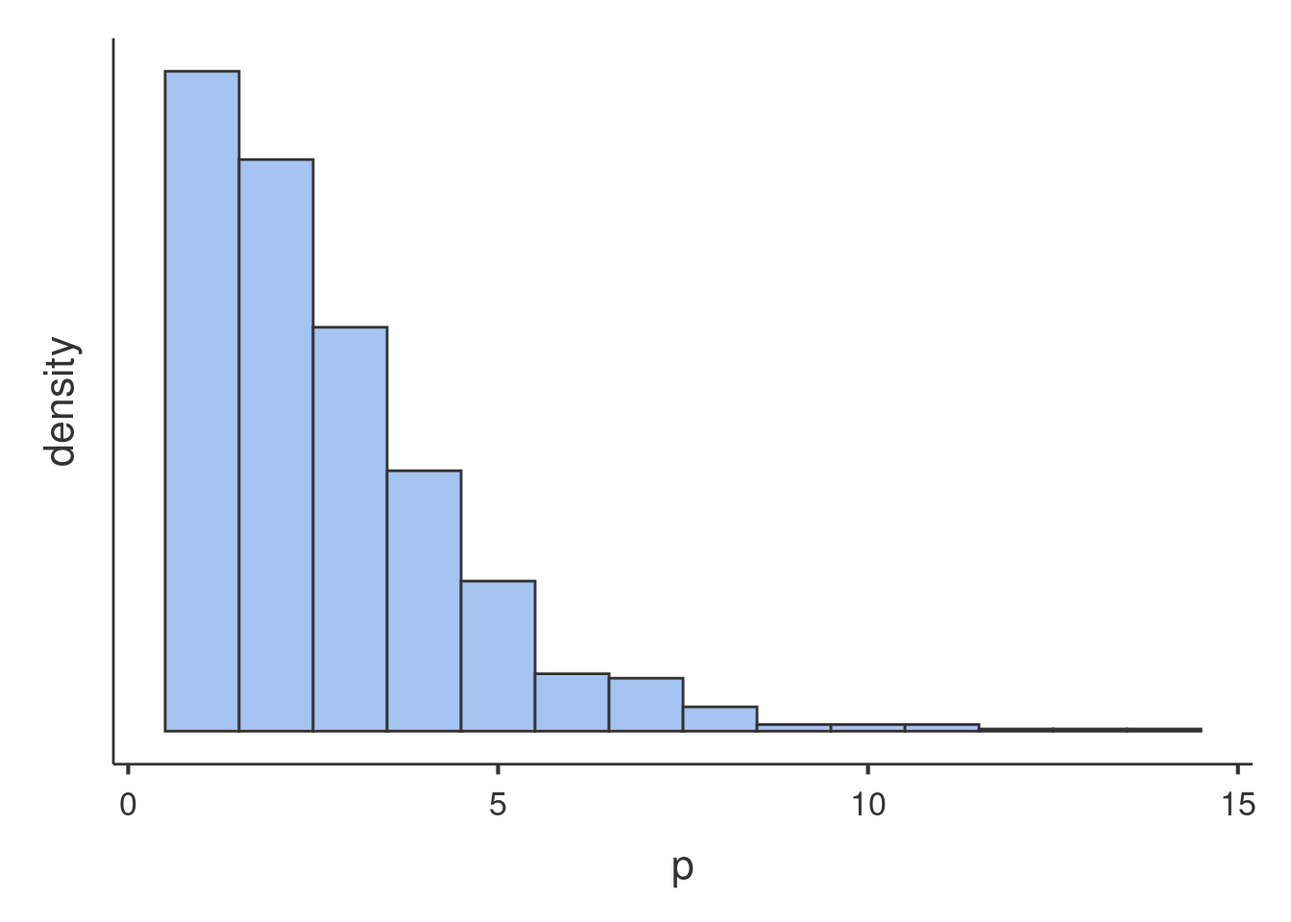
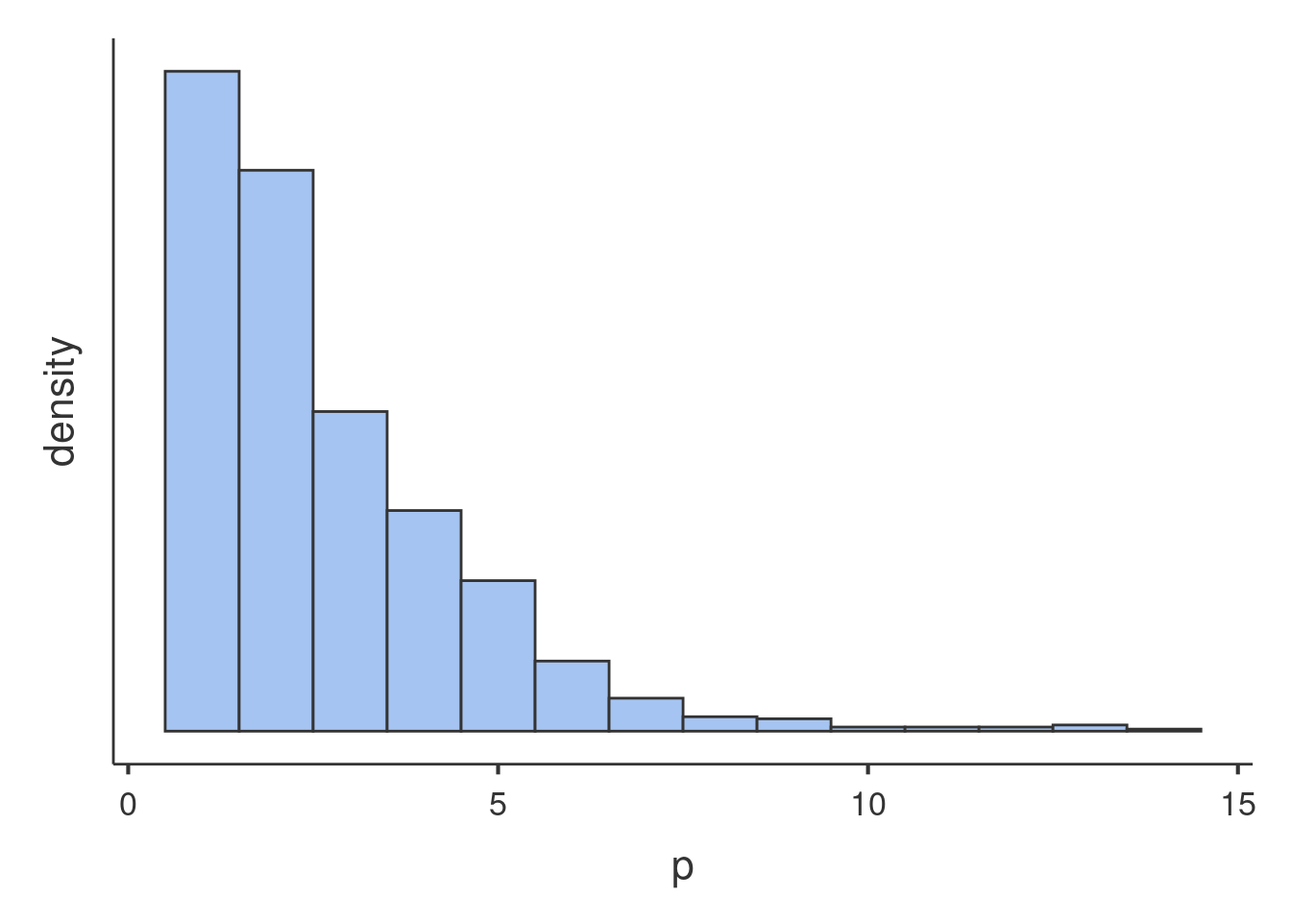
updates

diff --git a/gzlmmixed.html b/gzlmmixed.html
@@ -414,7 +414,7 @@ div.tocify {
 <p>The module provides parameter estimates of the fixed effects, the random variances and correlation among random coefficients.</p>
 <p>Variables definition follows <span class="jamovi">jamovi</span> standards, with categorical independent variables defined in “fixed factors” and continuous independent variables in “covariates”.</p>
 <p><img src="gzlmmixed/estimates.png" class="img-responsive" alt=""></p>
-<p>The grouping variable is simply set by putting the corresponding variable(s) into <code>cluster</code>. In this version, multiple clustering variables are possible, but not combinations of classifications ( see <a href="mixed_specs.html">Technical Details</a> ).</p>
+<p>The grouping variable is simply set by putting the corresponding variable(s) into <span class="option">cluster</span>. In this version, multiple clustering variables are possible, but not combinations of classifications. That can be easily solved by recoding the clustering variables ( see <a href="mixed_specs.html">Technical Details</a> ).</p>
 <p>Confidence intervals for the parameters estimates and for the exponential of them (expB).</p>
 <p>The actual estimation occurs when the dependent variable, the clustering variable and at least one random coefficient (random effect) has been selected.</p>
 </div>
@@ -422,7 +422,7 @@ div.tocify {
 <h1>Random effects</h1>
 <p><img src="mixed/random.png" class="img-responsive" alt=""></p>
 <p>Random effects across clustering variables are automatically prepared by the module following R lmer() standards: <code>term | cluster</code> indicates that the coefficient associated with <code>term</code> is random across <code>cluster</code>.</p>
-<p>By default the module assumes correlated random effects. All the effects varying across the same cluster variable appearing in the <code>Random coefficients</code> will be correlated. To obtain a <em>variance component</em> model, select <code>Not correlated</code>. A custom pattern of correlation can be obtained by selecting <code>Correlated by block</code>. For instance, in Fig. below, a custom structure has been defined by allowing the intercept and the effect of <code>x</code> to be correlated, whereas the effect of <code>wfac</code> is independent from the others.</p>
+<p>By default the module assumes correlated random effects. All the effects varying across the same cluster variable appearing in the <span class="option">Random coefficients</span> will be correlated. To obtain a <em>variance component</em> model, select <span class="option">Not correlated</span>. A custom pattern of correlation can be obtained by selecting <code>Correlated by block</code>. For instance, in Fig. below, a custom structure has been defined by allowing the intercept and the effect of <code>x</code> to be correlated, whereas the effect of <code>wfac</code> is independent from the others.</p>
 <p><img src="mixed/random2.png" class="img-responsive" alt=""></p>
 </div>
 <div id="fixed-effects-model" class="section level1">
@@ -449,8 +449,8 @@ div.tocify {
 <div id="covariates-scaling" class="section level1">
 <h1>Covariates Scaling</h1>
 <p><img src="commons/pics/xscoring.png" class="img-responsive" alt=""></p>
-<p>Continuous variables can be centered, standardized, cluster-based centered, cluster-based standardized or used as they are (<code>none</code>). The default is <code>centered</code> because it makes our lives much easier when there are interactions in the model, and do not affect the B coefficients when there are none. Thus, if one is comparing results with other software that does not center the continuous variables, without interactions in the model one would find only a discrepancy in the intercept, because in GAMLj the intercept represents the expected value of the dependent variable for the average value of the independent variable. If one needs to <em>unscale</em> the variable, simply select <code>none</code>.</p>
-<p><code>cluster-based centered</code> and <code>cluster-based standardized</code> center each score using the mean of the cluster in which the score belongs. For <code>cluster-based standardized</code> the score is also divided by the cluster standard deviation.</p>
+<p>Continuous variables can be centered, standardized, cluster-based centered, cluster-based standardized, log-transformed or used as they are (<code>none</code>). The default is <span class="option">centered</span> because it makes our lives much easier when there are interactions in the model, and do not affect the B coefficients when there are none. Thus, if one is comparing results with other software that does not center the continuous variables, without interactions in the model one would find only a discrepancy in the intercept, because in GAMLj the intercept represents the expected value of the dependent variable for the average value of the independent variable. If one needs to <em>unscale</em> the variable, simple select <span class="option">none</span>.</p>
+<p><span class="option">Centered clusterwise</span> and <span class="option">z-scores clusterwise</span> center each score using the mean of the cluster in which the score belongs. For <span class="option">z-scores clusterwise</span> the score is also divided by the cluster standard deviation. <span class="option">Log</span> applies a simple natural logarithm transformation to the variable.</p>
 <p><span class="option">Covariates conditioning</span> rules how the model is conditioned to different values of the continuous independent variables in the <em>simple effects</em> estimation and in the <em>plots</em> when there is an interaction in the model.</p>
 <ul>
 <li><p><span class="option">Mean+SD</span>: means that the IV is conditioned to the <span class="math inline">\(mean\)</span>, to <span class="math inline">\(mean+k \cdot sd\)</span>, and to <span class="math inline">\(mean-k\cdot sd\)</span>, where <span class="math inline">\(k\)</span> is ruled by the white field below the option. Default is 1 SD.</p></li>
@@ -490,7 +490,7 @@ div.tocify {
 <p>By filling in <span class="option">Separate plots</span> one can probe three-way interactions. If the selected variable is a factor, one obtains a two-way graph (as previously defined) for each level of the “Separate plots” variable. If the selected variable is a covariate, one obtains a two-way graph (as previously defined) for the <code>Separate plots</code> variable centered to conditioning values selected in the <span class="option">Covariates conditioning</span> options.</p>
 <p>Flagging the <span class="option">Display</span> options add <span class="option">Confidence intervals</span> (or confidence bands) or <span class="option">Standard errors</span> to the plots.</p>
 <p><span class="option">Plot</span> options allows to add observed data to the plot (<span class="option">Observed scores</span>) or to fix the range of the plot to the actual range of the dependent variable (<span class="option">Y-axis observed range</span>), without the need to plot the actual predicted values. When <code>Separate plots</code> are required, in each plot are showed only the observed scores of the moderator level for which the plot is done when the moderator is a categorical one, otherwise all data are plot in each plot.</p>
-<p>By flagging <code>Random effects</code> one obtains the random effects estimated values in the plot along with the fixed effects. In case of multiple cluster variables, the first cluster variable in the <code>cluster</code> field of “variable role” panel is used (if it is included in the model). To change the cluster variable used to plot the random effects, change the order of the variables in the “variable role” definition.</p>
+<p>By flagging <span class="option">Random effects</span> one obtains the random effects estimated values in the plot along with the fixed effects. In case of multiple cluster variables, the first cluster variable in the <code>cluster</code> field of “variable role” panel is used (if it is included in the model). To change the cluster variable used to plot the random effects, change the order of the variables in the “variable role” definition.</p>
 </div>
 <div id="estimated-marginal-means" class="section level1">
 <h1>Estimated marginal means</h1>
@@ -500,8 +500,8 @@ div.tocify {
 <div id="options" class="section level1">
 <h1>Options</h1>
 <p><img src="gzlmmixed/options.png" class="img-responsive" alt=""></p>
-<p>The <code>precision/speed</code> parameter applies to mixed models with one random effect. Higher numbers increase precision in the estimation with a speed cost. It corresponds to the <code>nAGQ</code> parameter of <code>glmer</code> command in R package <a href="https://cran.r-project.org/web/packages/lme4/index.html">lme4</a>. For models with more than</p>
-<p>The <code>CI method</code> decides which method is used for computing confidence intervals. <code>Wald</code> uses Wald statistics and it is less precise than the other methods, but it is significantly faster. <code>Profile</code> is more precise but slower. <code>Boot</code>, bootstrap method, is the slowest. Details of the implementation can be found in <a href="https://cran.r-project.org/web/packages/lme4/lme4.pdf">lme4 manual</a></p>
+<p>The <span class="option">precision/speed</span> parameter applies to mixed models with one random effect. Higher numbers increase precision in the estimation with a speed cost. It corresponds to the <code>nAGQ</code> parameter of <code>glmer</code> command in R package <a href="https://cran.r-project.org/web/packages/lme4/index.html">lme4</a>. For models with more than</p>
+<p>The <span class="option">CI method</span> decides which method is used for computing confidence intervals. <span class="option">Wald</span> uses Wald statistics and it is less precise than the other methods, but it is significantly faster. <span class="option">Profile</span> is more precise but slower. <span class="option">Boot</span>, bootstrap method, is the slowest. Details of the implementation can be found in <a href="https://cran.r-project.org/web/packages/lme4/lme4.pdf">lme4 manual</a></p>
 </div>
 <div id="examples" class="section level1">
 <h1>Examples</h1>

diff --git a/gzlm.html b/gzlm.html
@@ -387,14 +387,14 @@ div.tocify {
 <p>For each model, any combination of categorical and continuous variables can be set as independent variables, thus providing an easy way for multiple regression, ANOVA-like, ANCOVA-like and moderation analysis for categorical and count dependent variables.</p>
 <p>Models are defined by a link function (LF) and the dependent variable distribution, thus allowing to model different types of dependent variables:</p>
 <ul>
-<li>Linear model: identity LF, gaussian distribution, yielding a general linear model for continuous dependent variables.</li>
-<li>Poisson model: logarithm LF, Poisson distribution, modelling count dependent variables. This model is often called log-linear model when the independent variables are all categorical.</li>
-<li>Overdispersed Poisson model: logarithm LF, Poisson distribution, quasi-maximum likelihood estimation, with overdispersion, modelling count dependent variables. This model is often used for overdispersed data.</li>
-<li><p>Negative binomial model: logarithm LF, negative binomial distribution, maximum likelihood estimation, with overdispersion, modelling count dependent variables. This model is often used for overdispersed data.</p></li>
-<li>Logistic model: logit LF, binomial distribution, modelling dichotomous dependent variables.</li>
-<li><p>Probit model: inverse of the cumulative normal distribution link function, binomial distribution, modelling dichotomous dependent variables.</p></li>
-<li><p>Multinomial model: logit LF, multinomial distribution, modelling categorical dependent variables.</p></li>
-<li><p>Custom model: combination of distribution family and link function.</p>
+<li><span class="option">Linear</span> model: identity LF, gaussian distribution, yielding a general linear model for continuous dependent variables.</li>
+<li><span class="option">Poisson</span> model: logarithm LF, Poisson distribution, modelling count dependent variables. This model is often called log-linear model when the independent variables are all categorical.</li>
+<li><span class="option">Poisson (overdispersion)</span> model: Overdispersed Poisson model: logarithm LF, Poisson distribution, quasi-maximum likelihood estimation, with overdispersion, modelling count dependent variables. This model is often used for overdispersed data.</li>
+<li><p><span class="option">Negative binomial</span> model: logarithm LF, negative binomial distribution, maximum likelihood estimation, with overdispersion, modelling count dependent variables. This model is often used for overdispersed data.</p></li>
+<li><span class="option">Logistic</span> model: logit LF, binomial distribution, modelling dichotomous dependent variables.</li>
+<li><p><span class="option">Probit</span> model: inverse of the cumulative normal distribution link function, binomial distribution, modelling dichotomous dependent variables.</p></li>
+<li><p><span class="option">Multinomial</span> model: logit LF, multinomial distribution, modelling categorical dependent variables.</p></li>
+<li><p><span class="option">Custom</span> model: combination of distribution family and link function.</p>
 <ul>
 <li><p>The available distributions are:</p>
 <ul>
@@ -431,7 +431,7 @@ div.tocify {
 <p>By increasing that number before dragging the term into the <span class="option">Model Terms</span> field, one can include any high order effect.</p>
 <p><img src="commons/pics/nonlinear2.png" class="img-responsive" alt=""></p>
 <p>Increasing the order number and combining the selection with other variables allows including interactions involving higher order effects of a variable.</p>
-<p>The option <code>Fixed Intercept</code> includes an intercept in the model. Unflag it to estimate zero-intercept models (Regression through the origin, but see <a href="https://dynamicecology.wordpress.com/2017/04/13/dont-force-your-regression-through-zero-just-because-you-know-the-true-intercept-has-to-be-zero/">here</a> before you do it ).</p>
+<p>The option <span class="option">Fixed Intercept</span> includes an intercept in the model. Unflag it to estimate zero-intercept models (Regression through the origin, but see <a href="https://dynamicecology.wordpress.com/2017/04/13/dont-force-your-regression-through-zero-just-because-you-know-the-true-intercept-has-to-be-zero/">here</a> before you do it ).</p>
 </div>
 <div id="factors-coding" class="section level1">
 <h1>Factors coding</h1>
@@ -445,7 +445,7 @@ div.tocify {
 <div id="covariates-scaling" class="section level1">
 <h1>Covariates Scaling</h1>
 <p><img src="commons/pics/xscoring.png" class="img-responsive" alt=""></p>
-<p>Continuous variables can be centered, standardized or used as they are (<code>none</code>). The default is <code>centered</code> because it makes our lives much easier when there are interactions in the model, and do not affect the B coefficients when there are none. Thus, if one is comparing results with other software that does not center the continuous variables, without interactions in the model one would find only a discrepancy in the intercepts, because in GAMLj the intercept represents the expected value of the dependent variable for the average value of the independent variable. If one needs to <em>unscale</em> the variable, simply select <code>none</code>.</p>
+<p>Continuous variables can be centered, standardized (<span class="option">z-scores</span>), log-transformed (<span class="option">Log</span>) or used as they are (<span class="option">none</span>). The default is <span class="option">centered</span> because it makes our lives much easier when there are interactions in the model, and do not affect the B coefficients when there are none. Thus, if one is comparing results with other software that does not center the continuous variables, without interactions in the model one would find only a discrepancy in the intercept, because in GAMLj the intercept represents the expected value of the dependent variable for the average value of the independent variable. If one needs to <em>unscale</em> the variable, simply select <span class="option">none</span>.</p>
 <p><span class="option">Covariates conditioning</span> rules how the model is conditioned to different values of the continuous independent variables in the <em>simple effects</em> estimation and in the <em>plots</em> when there is an interaction in the model.</p>
 <ul>
 <li><p><span class="option">Mean+SD</span>: means that the IV is conditioned to the <span class="math inline">\(mean\)</span>, to <span class="math inline">\(mean+k \cdot sd\)</span>, and to <span class="math inline">\(mean-k\cdot sd\)</span>, where <span class="math inline">\(k\)</span> is ruled by the white field below the option. Default is 1 SD.</p></li>

diff --git a/rosetta_gzlmmixed1.html b/rosetta_gzlmmixed1.html
@@ -364,11 +364,11 @@ div.tocify {
 
 <p><span class="keywords"> <span class="keytitle"> keywords </span> jamovi, R, SPSS, logistic, generalized mixed, mixed models </span></p>
 <p><span class="version"> <span class="versiontitle"> GALMj version ≥ </span> 2.0.0 </span> <span class="draft"> Draft version, mistakes may be around </span></p>
-<p>Here you can find comparisons of results obtained in <span class="jamovi">jamovi</span> GAMLj,R, and SPSS. When not explicitly discussed, the code of different software is written with the aim of obtaining identical results across programs (not necessarily with the most efficient strategy).</p>
-<p>In this example we compare GAMLj results with R results obtained by IDRE on their <a href="https://stats.idre.ucla.edu/r/dae/mixed-effects-logistic-regression/">tutorial web page</a></p>
+<p>Here you can find comparisons of results obtained in <span class="jamovi">jamovi</span> <span class="gamlj">GAMLj</span>, R, and SPSS. When not explicitly discussed, the code of different software is written with the aim of obtaining identical results across programs (not necessarily with the most efficient strategy).</p>
+<p>In this example we compare <span class="gamlj">GAMLj</span> results with R results obtained by IDRE on their <a href="https://stats.idre.ucla.edu/r/dae/mixed-effects-logistic-regression/">tutorial web page</a>, and with SPSS results.</p>
 <div id="the-research-design" class="section level1">
 <h1>The research design</h1>
-<p>In this example, we are going to explore lung cancer remission using a simulated dataset. A variety of outcomes were collected on patients, who are nested within doctors, who are in turn nested within hospitals. There are also a few doctor level variables, such as Experience that we will use in our example (<a href="https://stats.idre.ucla.edu/r/dae/mixed-effects-logistic-regression/">IDRE</a>). Data can be downloaded <a href="https://stats.idre.ucla.edu/stat/data/hdp.csv">here</a></p>
+<p>In this example, we are going to explore lung cancer remission using a simulated dataset. A variety of outcomes were collected on patients, who are nested within doctors, who are in turn nested within hospitals. There are also a few doctor level variables, such as <em>Experience</em>, that we will use in our example (<a href="https://stats.idre.ucla.edu/r/dae/mixed-effects-logistic-regression/">IDRE</a>). Data can be downloaded <a href="https://stats.idre.ucla.edu/stat/data/hdp.csv">here</a></p>
 </div>
 <div id="r" class="section level1">
 <h1>R</h1>
@@ -432,11 +432,11 @@ print(m, corr = FALSE)</code></pre>
 </div>
 <div id="gamlj" class="section level1">
 <h1>GAMLj</h1>
-<p><span class="jamovi">jamovi</span> GAMLj module for <code>Generalized mixed models</code> can be used to estimate a random coefficient mixed model. First, it requires choose the specific model we want to run: the <code>Logistic</code> model.</p>
+<p><span class="jamovi">jamovi</span> <span class="gamlj">GAMLj</span> module for <code>Generalized mixed models</code> can be used to estimate a random coefficient mixed model. First, it requires choose the specific model we want to run: the <code>Logistic</code> model.</p>
 <p><img src="rosetta/gzlmmixed/modelpick.png" class="img-responsive" alt=""></p>
 <p>Then we set the variables in the right field depending on their role in the model and their type.</p>
 <p><img src="rosetta/gzlmmixed/variables.png" class="img-responsive" alt=""></p>
-<p>Please note that we put <code>LengthOfStay</code> in covariates because it is a continuous variable, even though <span class="jamovi">jamovi</span> recognizes it a categorical. By putting it in <code>Covariates</code>, we implicitly ask the module to treat it a continuous variable. The opposite holds for <code>DID</code> (doctors ID) which <span class="jamovi">jamovi</span> recognizes as continuous but the module treats as categorical after we put it in the <code>Clusters</code> field.</p>
+<p>Please note that we put <code>LengthOfStay</code> in covariates because it is a continuous variable, even though <span class="jamovi">jamovi</span> recognizes it a categorical. By putting it in <code>&lt;span class=&quot;option&quot;&gt;Covariates&lt;/span&gt;, we implicitly ask the module to treat it a continuous variable. The opposite holds for</code>DID` (doctors ID) which <span class="jamovi">jamovi</span> recognizes as continuous but the module treats as categorical after we put it in the <span class="option">Clusters</span> field.</p>
 <p>After the first setup, we need to specify the random effects. Following the IDRE analysis, we specify the intercept as random coefficient across doctors (<code>DID</code>).</p>
 <p><img src="rosetta/gzlmmixed/random.png" class="img-responsive" alt=""></p>
 <p>As soon as we include a random effect, the model is estimated</p>
@@ -444,14 +444,14 @@ print(m, corr = FALSE)</code></pre>
 <h2>Results</h2>
 <p>Let’s us first focus on the fixed parameters estimates, the B coefficients.</p>
 <p><img src="rosetta/gzlmmixed/results_estimates.png" class="img-responsive" alt=""></p>
-<p>For the predictors coefficients we have substantially the same results as in R, apart from rounding. For the intercept we have different results. The reason is the different default coding of the variables in GAMLj and in R. In R default, factors are coded with the <em>dummy coding scheme</em>, that is</p>
+<p>For the predictors coefficients we have substantially the same results as in R, apart from rounding. For the intercept we have different results. The reason is the different default coding of the variables in <span class="gamlj">GAMLj</span> and in R. In R default, factors are coded with the <em>dummy coding scheme</em>, that is</p>
 <pre><code>&gt; contrasts(hdp$CancerStage)
     II III IV
 I    0   0  0
 II   1   0  0
 III  0   1  0
 IV   0   0  1</code></pre>
-<p>and continuous independent variables are not scaled. In GAMLj the default coding system for categorical variable is <code>simple</code></p>
+<p>and continuous independent variables are not scaled. In <span class="gamlj">GAMLj</span> the default coding system for categorical variable is `<span class="option">simple</span>.</p>
 <p><img src="rosetta/gzlmmixed/coding.png" class="img-responsive" alt=""></p>
 <p>which results in a centered contrast.</p>
 <p><img src="rosetta/gzlmmixed/results_coding.png" class="img-responsive" alt=""></p>

diff --git a/glmmixed_example2.html b/glmmixed_example2.html
@@ -383,7 +383,7 @@ div.tocify {
 <p><img src="glmmixed_example2_files/figure-html/unnamed-chunk-2-1.png" width="672" /></p>
 <p>Glancing at the histogram makes it clear that the distribution is not normal, but it roughly resembles the Poisson distribution. Here is an example of Poisson distribution with equivalent mean.</p>
 <p><img src="glmmixed_example2_files/figure-html/unnamed-chunk-3-1.png" width="672" /></p>
-<p>We can see that the shape of our distribution is not qualitatively very different as compared with a theoretical Poisson distribution, so a Generalized Linear Model with Poisson distribition may work. However, we can check wheather our distribution is in line with the features of the Poisson dist by checking its mean and variance. The Poisson distribution has variance equal to the mean, in fact the simulated distribution in the histogram has <span class="math inline">\(\bar{x}=1.707\)</span> and <span class="math inline">\(s^2=1.533\)</span>. The <code>art</code> variable distribution has <span class="math inline">\(\bar{x}=1.693\)</span> and <span class="math inline">\(s^2=3.71\)</span>, with a ratio variance/mean of 2.191, which does not really qualify for Poisson dist. This looks like a case of <strong>overdispersion</strong>, <a href="http://bbolker.github.io/mixedmodels-misc/glmmFAQ.html#overdispersion">cf. here for details</a>. We will than consider a Negative Binomial model to account for possible overdispersion.</p>
+<p>We can see that the shape of our distribution is not qualitatively very different as compared with a theoretical Poisson distribution, so a Generalized Linear Model with Poisson distribition may work. However, we can check wheather our distribution is in line with the features of the Poisson dist by checking its mean and variance. The Poisson distribution has variance equal to the mean, in fact the simulated distribution in the histogram has <span class="math inline">\(\bar{x}=1.623\)</span> and <span class="math inline">\(s^2=1.578\)</span>. The <code>art</code> variable distribution has <span class="math inline">\(\bar{x}=1.693\)</span> and <span class="math inline">\(s^2=3.71\)</span>, with a ratio variance/mean of 2.191, which does not really qualify for Poisson dist. This looks like a case of <strong>overdispersion</strong>, <a href="http://bbolker.github.io/mixedmodels-misc/glmmFAQ.html#overdispersion">cf. here for details</a>. We will than consider a Negative Binomial model to account for possible overdispersion.</p>
 <p>An example of Negative Binomial distribution with equivalent mean and variance is here.</p>
 <p><img src="glmmixed_example2_files/figure-html/unnamed-chunk-4-1.png" width="672" /></p>
 <p>The second issue one needs to deal with is the structure of the data. We have seen that the students are not a random sample of students drawn independently one each other, but they are grouped by the program they are enrolled in. There are 83 programs, in each program there are on average 11 students. Because students in the same program may be more similar one each other than across programs, <code>programs</code> may cluster the scores of the dependent variable and create dependency in the data. To take dependency into the account, we will use a random intercepts model estimated with a Generalized Mixed Model.</p>
